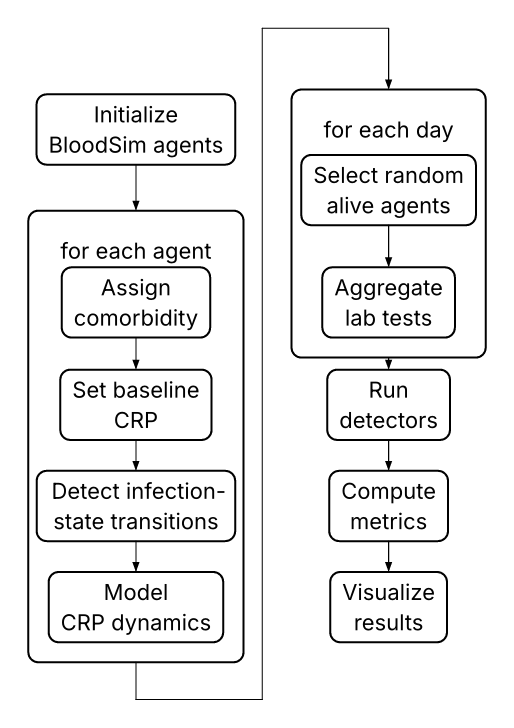
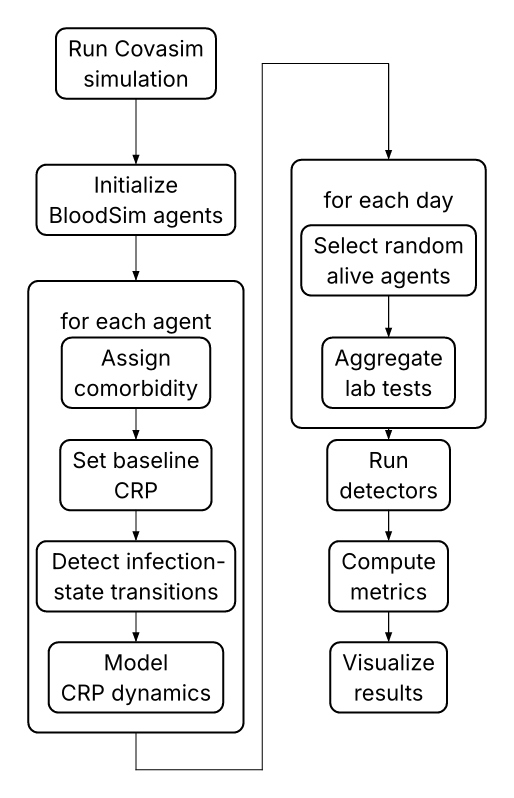
Minor figure fixes

Changed region(s): [[0.0311, 0.0302, 0.4981, 0.967], [0.5603, 0.0302, 0.965, 0.9066], [0.4981, 0.0302, 0.5292, 0.0907]]

diff --git a/figures/led_demo/generate_led_graph.py b/figures/led_demo/generate_led_graph.py
@@ -1,0 +1,58 @@
+import numpy as np
+import matplotlib.pyplot as plt
+from scipy.optimize import curve_fit
+
+
+def calculate_aic(n, rss, k):
+    rss = max(float(rss), np.finfo(float).eps)
+    return n * np.log(rss / n) + 2 * k
+
+def random_noise_model(x, a):
+    return a
+
+def linear_growth_model(x, a, b):
+    return a * x + b
+
+def exponential_growth_model(x, a, b, c):
+    return a * np.exp(b * x) + c
+
+
+if __name__ == "__main__":
+    np.random.seed(0)
+    window_size = 28
+
+    x = np.arange(window_size)
+    y = np.exp(0.1 * (x+25)) + np.random.normal(0, 10, size=x.shape)
+
+    fig, ax = plt.subplots()
+    ax.plot(x, y, 'o', ms=5, color='black')
+    ax.set_xlabel('Day', fontsize=16)
+    ax.set_ylabel('CRP concentration [mg/L]', fontsize=16)
+
+    
+    popt_exponential, pcov_exponential = curve_fit(exponential_growth_model, x, y, p0=(1, 0.1, 0))
+    
+    popt_linear, pcov_linear = curve_fit(linear_growth_model, x, y)
+    
+    popt_random, pcov_random = curve_fit(random_noise_model, x, y)
+    
+    
+
+    rss_random = np.sum((y - random_noise_model(x, *popt_random))**2)
+    rss_linear = np.sum((y - linear_growth_model(x, *popt_linear))**2)
+    rss_exponential = np.sum((y - exponential_growth_model(x, *popt_exponential))**2)
+
+    aic_random = calculate_aic(window_size, rss_random, 1)
+    aic_linear = calculate_aic(window_size, rss_linear, 2)
+    aic_exponential = calculate_aic(window_size, rss_exponential, 2)
+
+    print(aic_random, aic_linear, aic_exponential)
+
+    ax.plot(x, exponential_growth_model(x, *popt_exponential), '-', label=f'AIC = {aic_exponential:.0f}', color='#D55E00')
+    ax.plot(x, linear_growth_model(x, *popt_linear), '-', label=f'AIC = {aic_linear:.0f}', color='#F0E442')
+    ax.plot(x, np.ones_like(x)*random_noise_model(x, *popt_random), '-', label=f'AIC = {aic_random:.0f}', color='#009E73')
+
+    ax.legend(loc='upper center', fontsize=16, frameon=False)
+    ax.set_xticks([])
+    ax.set_yticks([])
+    fig.savefig('led_graph.png')
